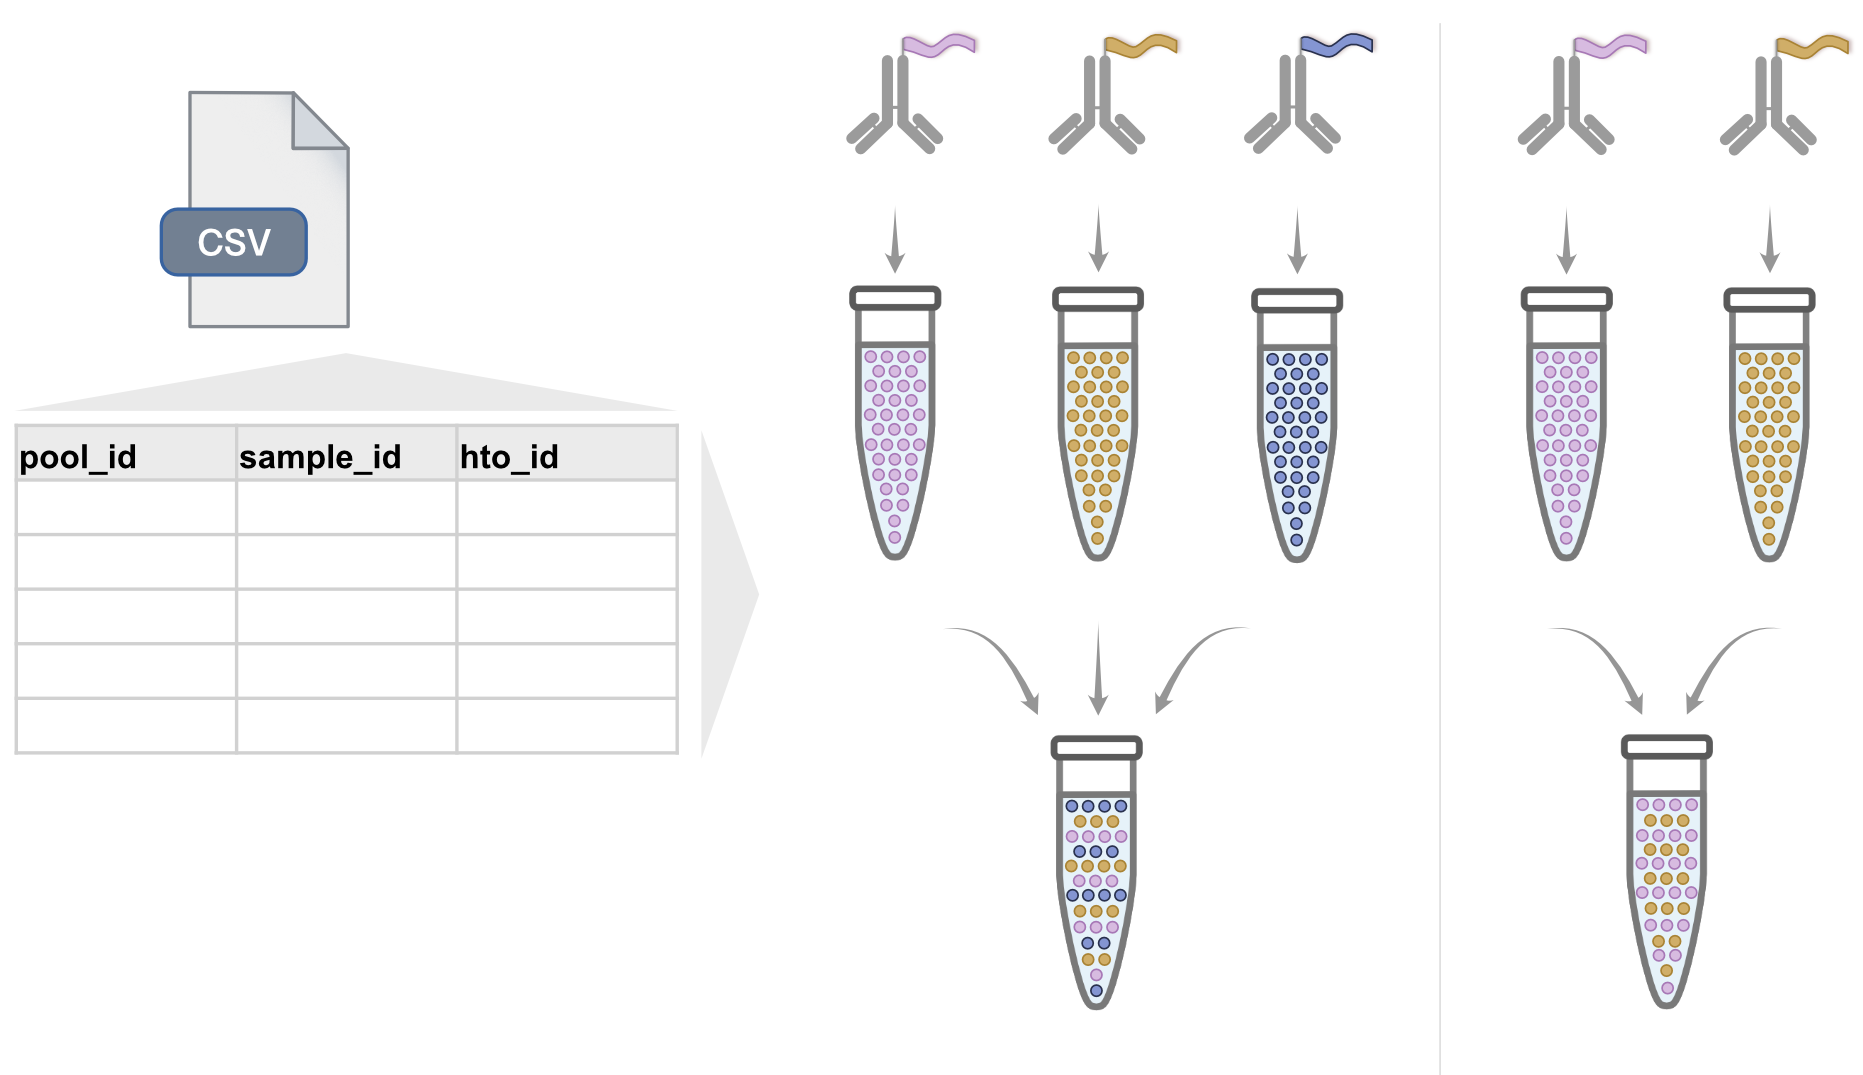
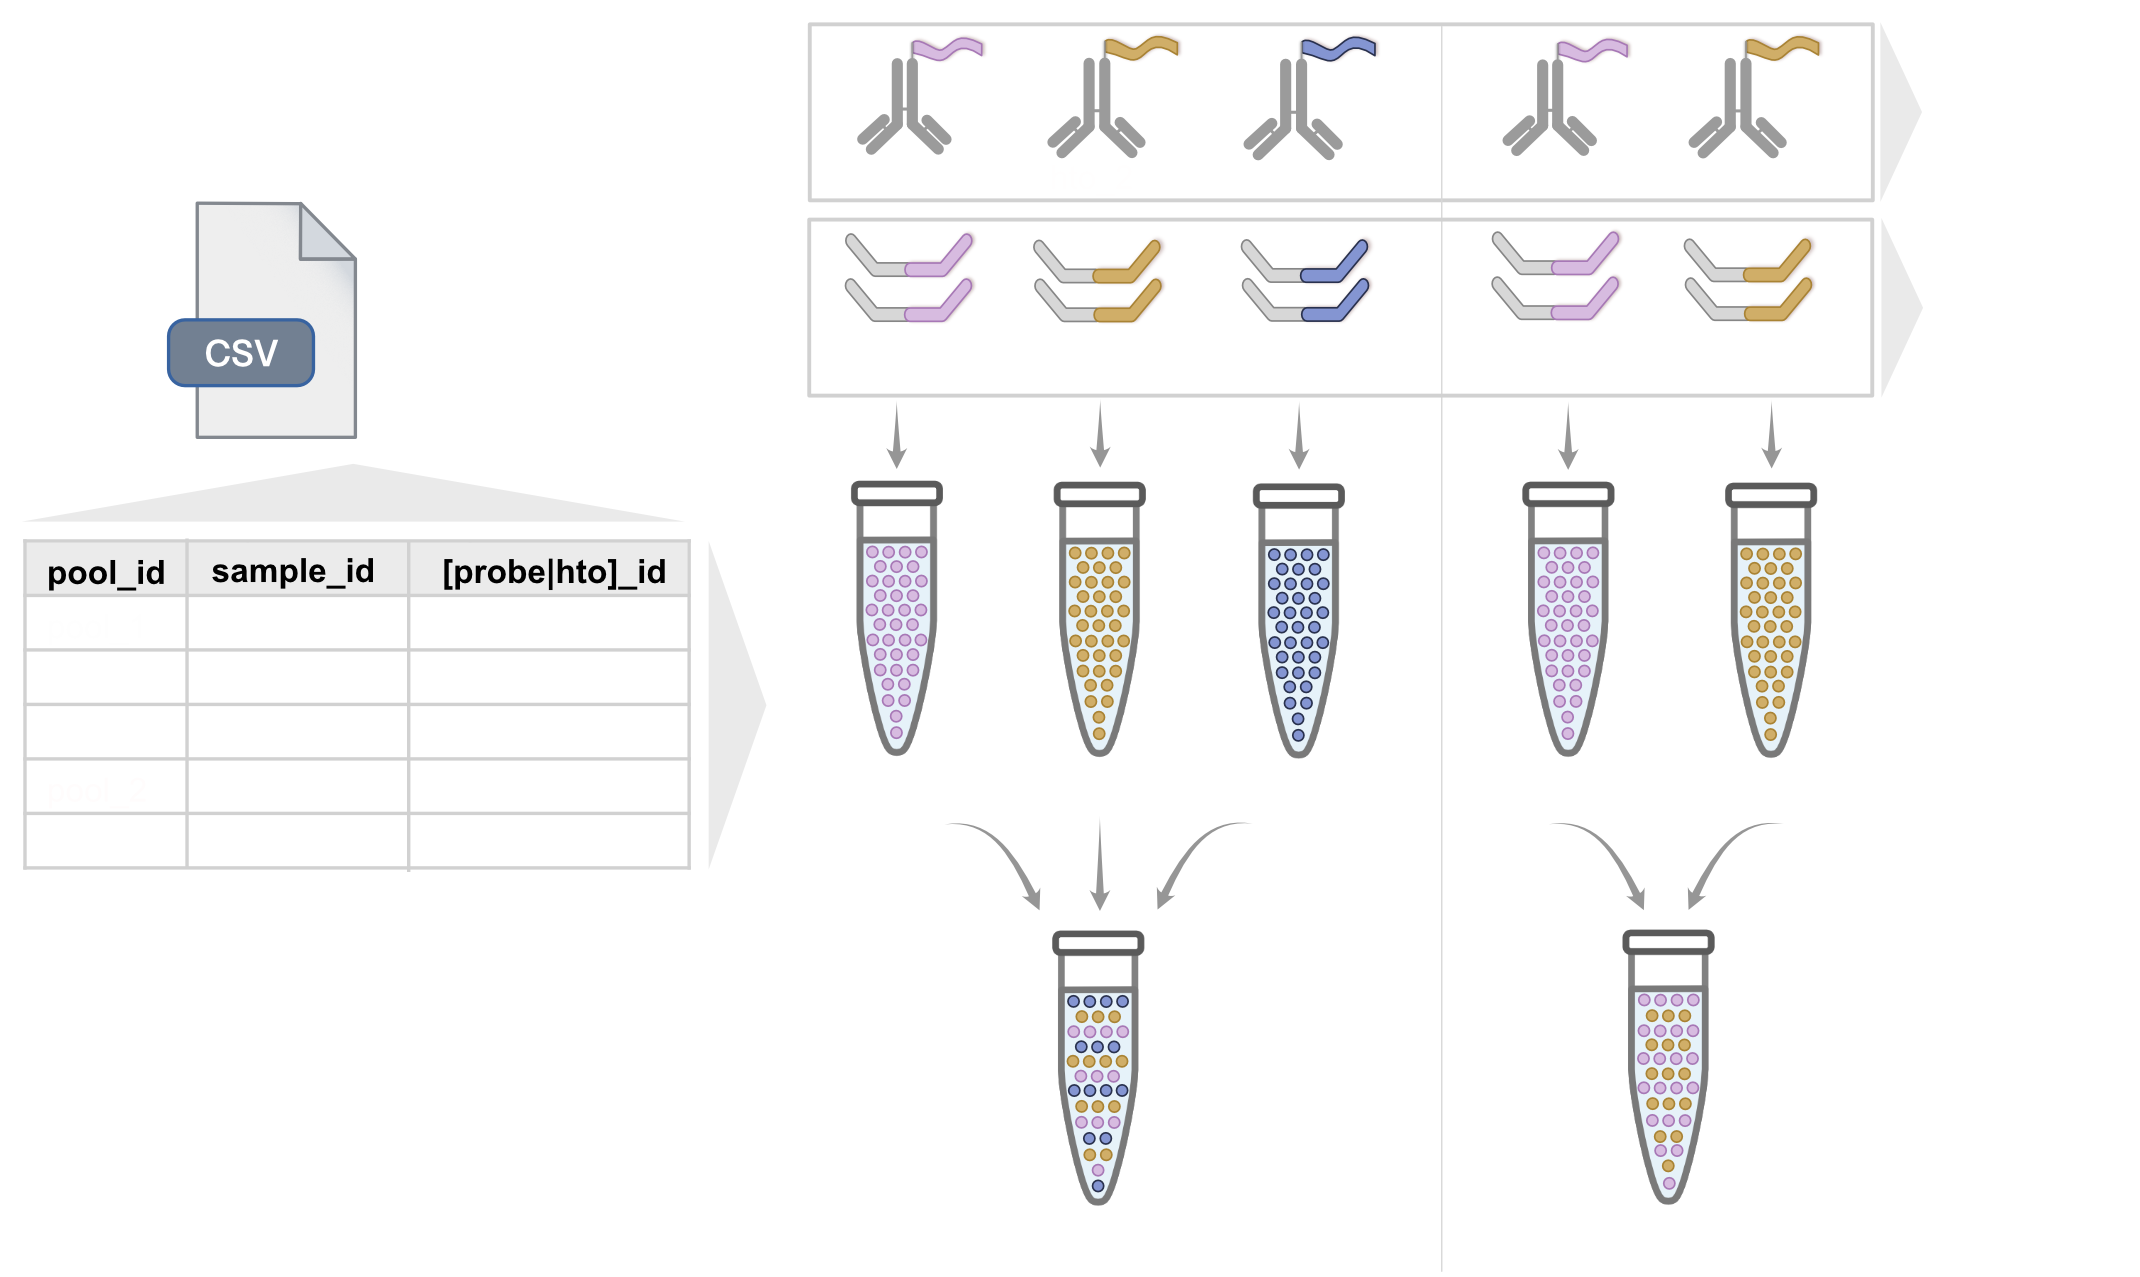
fixed to flex tutorial, usage and reference

diff --git a/resources/mkdocs/docs/stylesheets/extra.css b/resources/mkdocs/docs/stylesheets/extra.css
@@ -35,8 +35,8 @@ img[alt="workflow_chart"] {
 img[alt="multiplexing"] {
   display: block;
   margin: 0 auto;
-  width: 850px;
-  height: 500px;
+  width: 970px;
+  height: 600px;
 }
 .img-caption {
   text-align: left;

diff --git a/resources/mkdocs/docs/tutorial.md b/resources/mkdocs/docs/tutorial.md
@@ -507,6 +507,11 @@ scprocess setup
 
     This tutorial uses the ["40k Mixture of Mouse Cell Lines dataset"](https://www.10xgenomics.com/datasets/40k-mixture-of-mouse-cell-lines-multiplexed-samples-4-probe-barcodes-1-standard) from 10x Genomics. Four mouse cell lines (A20, NIH 3T3, Neuro-2a and EL4) were profiled together in a single Flex library. Each cell line was labelled with a distinct probe barcode (BC001–BC004) prior to pooling.
 
+    To generate smaller files via downsampling, we first download the BAM and the raw count HDF5 file for each of the four samples from the [10x Genomics website](https://www.10xgenomics.com/datasets/40k-mixture-of-mouse-cell-lines-multiplexed-samples-4-probe-barcodes-1-standard). For each sample independently, barcodes were
+    selected by retaining 40% of barcodes called as cells, 40% of barcodes in the empty plateau, and 30% of the remaining barcodes; any barcode
+    with fewer than 10 UMIs was discarded, as were all reads flagged as PCR duplicates. The four filtered BAMs were then merged and converted back to FASTQ format,
+    resulting in the dataset used for this tutorial.
+
 ### Creating a new project directory and preparing input data
 
 Create a new project directory using the `flex` and `multiplex` flags to generate a configuration template pre-populated with Flex-specific fields:
@@ -524,28 +529,41 @@ Next, download the raw FASTQ files:
 
 !!! warning "File size"
 
-    The size of FASTQ files approximately 99 GB. Download may take a while.
+    The size of FASTQ files approximately 23 GB. Download may take a while.
 
 ```bash
 # dowload FASTQ files
-wget -P data/fastqs \
-  https://s3-us-west-2.amazonaws.com/10x.files/samples/cell-exp/7.1.0/4plex_mouse_cell_lines_multiplex_Multiplex/4plex_mouse_cell_lines_multiplex_Multiplex_fastqs.tar
-
-tar -xvf data/fastqs/4plex_mouse_cell_lines_multiplex_Multiplex_fastqs.tar \
-  -C data/fastqs \
-  && rm data/fastqs/4plex_mouse_cell_lines_multiplex_Multiplex_fastqs.tar
-
-# remove index files (identified by _I1_ and _I2_ tags)
-find data/fastqs -name "*_I1_*" -o -name "*_I2_*" | xargs rm -f
+for url in https://zenodo.org/records/20162591/files/4plex_mouse_cell_lines_multiplex_S1_L00{1..4}.tar; do
+    {
+        file=$(basename "$url")
+        echo "Downloading $file..."
+        wget -q --show-progress -P data/fastqs "$url"
+        
+        echo "Extracting $file..."
+        tar -xf "data/fastqs/$file" -C data/fastqs
+        
+        rm "data/fastqs/$file"
+        echo "Finished $file"
+    } &
+done
+wait
 
 # download sample metadata
-wget -P data/metadata https://github.com/marusakod/scprocessData/releases/download/v0.1.0/flex_test_project_metadata.csv
+wget -P data/metadata https://zenodo.org/records/20162591/files/flex_test_project_metadata.csv
 ```
 
 With `ls data/fastqs` you should be able to see the following files:
 
 ```bash
-# paste fastq files here
+4plex_mouse_cell_lines_multiplex_S1_L001_R1_001.fastq.gz  4plex_mouse_cell_lines_multiplex_S1_L002_R2_002.fastq.gz
+4plex_mouse_cell_lines_multiplex_S1_L001_R1_002.fastq.gz  4plex_mouse_cell_lines_multiplex_S1_L003_R1_001.fastq.gz
+4plex_mouse_cell_lines_multiplex_S1_L001_R1_003.fastq.gz  4plex_mouse_cell_lines_multiplex_S1_L003_R1_002.fastq.gz
+4plex_mouse_cell_lines_multiplex_S1_L001_R2_001.fastq.gz  4plex_mouse_cell_lines_multiplex_S1_L003_R2_001.fastq.gz
+4plex_mouse_cell_lines_multiplex_S1_L001_R2_002.fastq.gz  4plex_mouse_cell_lines_multiplex_S1_L003_R2_002.fastq.gz
+4plex_mouse_cell_lines_multiplex_S1_L001_R2_003.fastq.gz  4plex_mouse_cell_lines_multiplex_S1_L004_R1_001.fastq.gz
+4plex_mouse_cell_lines_multiplex_S1_L002_R1_001.fastq.gz  4plex_mouse_cell_lines_multiplex_S1_L004_R1_002.fastq.gz
+4plex_mouse_cell_lines_multiplex_S1_L002_R1_002.fastq.gz  4plex_mouse_cell_lines_multiplex_S1_L004_R2_001.fastq.gz
+4plex_mouse_cell_lines_multiplex_S1_L002_R2_001.fastq.gz  4plex_mouse_cell_lines_multiplex_S1_L004_R2_002.fastq.gz
 ```
 
 To inspect the contents of the `flex_test_project_metadata.csv` file, you can use the following command:
@@ -567,7 +585,7 @@ pool_id                           sample_id     probe_id
 Note that the first column of the sample metadata file (`pool_id`) contains values that can be matched to FASTQ files i.e. `4plex_mouse_cell_lines_multiplex*`. The metadata file requires two additional columns:
 
 * `sample_id`: lists all samples corresponding to a single pool.
-* `probe_id`: lists the lables of probe barcode ids used for each sample.
+* `probe_id`: lists the lables of probe barcode IDs used for each sample.
 
 ### Creating a configuration file
 
@@ -576,7 +594,7 @@ The `newproj` command created a template at `config-flex_project.yaml`:
 ```yaml
 project:
   proj_dir: /absolute/path/to/test_project # replace with correct absolute path 
-  fastq_dir:
+  fastq_dir: data/fastqs
   full_tag: flex_project
   short_tag:
   your_name: 
@@ -593,7 +611,7 @@ qc:
   qc_max_splice: 0.99
 ```
 
-In addition to parameters common to both 10x assay types we have to set flex-specific paramaters highlighted below:
+In addition to parameters common to both 10x assay types we have to set Flex-specific paramaters highlighted below:
 
 ```yaml hl_lines="9 10 13"
 project:
@@ -625,7 +643,7 @@ scprocess run config-flex_project.yaml
 
 ### Inspecting reports
 
-All reports generated by {{sc}} for this tutorial are available at https://marusakod.github.io/scprocess_test_flex_project/. 
+All reports generated by {{sc}} for this tutorial are available at []
 
 
 

diff --git a/resources/mkdocs/docs/reference.md b/resources/mkdocs/docs/reference.md
@@ -22,18 +22,18 @@ arvados:
   arv_instance:   instance_name
 ref_txomes:
   tenx:
-    - name:       human_2024
-      decoys:     true
-      rrnas:      true
+  - name:       human_2024
+    decoys:     true
+    rrnas:      true
   custom:
-    - name:       custom_genome_name
-      fasta:      /path/to/genome.fa
-      gtf:        /path/to/genes.gtf
-      decoys:     true
-      mito_str:   "^mt-"
+  - name:       custom_genome_name
+    fasta:      /path/to/genome.fa
+    gtf:        /path/to/genes.gtf
+    decoys:     true
+    mito_str:   "^mt-"
 probe_sets:
   tenx:
-    - name:       human_v1
+  - name:       human_v1
 ```
 
 ##### user
@@ -144,7 +144,9 @@ This is an example config file for {{sc}} with all parameters and their default 
       affiliation:
       date_stamp:
       sample_metadata:
+      tenx_assay_type:
       ref_txome:
+      probe_set:
       metadata_vars:
       show_arv_uuids: true
       custom_sample_params:
@@ -242,7 +244,9 @@ This is an example config file for {{sc}} with all parameters and their default 
       affiliation: where you work
       date_stamp: "2050-01-01"
       sample_metadata: /path/to/metadata.csv
+      tenx_assay_type: poly_a
       ref_txome: human_2024
+      probe_set: human_v1
       tenx_chemistry: 3v3
       metadata_vars: [var1, var2]
       show_arv_uuids: true
@@ -345,7 +349,7 @@ This is an example config file for {{sc}} with all parameters and their default 
 * `your_name`: author’s name, displayed in HTML outputs.
 * `affiliation`: author’s affiliation, displayed in HTML outputs.
 * `date_stamp`: start date of the analysis, formatted as `"YYYY-MM-DD"`.
-* `sample_metadata`: path to CSV file with sample metadata. Should be absolute or relative to `proj_dir`. Spaces in column names are not allowed. Only required column is `sample_id`; values in `sample_id` should not contain `_R1`/`.R1` and `_R2`/`.R2` strings and should not overlap (a value should not be a subset of any other values). For Flex data, columns `pool_id` and `probe_id` are also required (see [Analysis of 10x Flex data](usage.md#analysis-of-10x-flex-data)).
+* `sample_metadata`: path to CSV file with sample metadata. Should be absolute or relative to `proj_dir`. Spaces in column names are not allowed. Only required column is `sample_id`; values in `sample_id` should not contain `_R1`/`.R1` and `_R2`/`.R2` strings and should not overlap (a value should not be a subset of any other values).
 * `ref_txome`: must match one of the values in the `ref_txome` column of `index_parameters.csv` (created by {{scsetup}}). Required for polyA data; must not be specified for Flex data (use `probe_set` instead).
 * `tenx_assay_type`: assay type. Options are `poly_a` and `flex`. When set to `flex`, `probe_set` is required and `ref_txome` must not be specified.
 * `probe_set`: probe set to use for 10x Flex data. Required when `tenx_assay_type` is `flex`. Valid values are `human_v1`, `human_v2`, `mouse_v1`, and `mouse_v2`. Must not be specified for polyA data.
@@ -390,7 +394,7 @@ sample_id:
 
 * `demux_type`: `demux_type` options (default is `none`):
     + `none` if experiment is not multiplexed;
-    + `hto` if demultiplexing of samples should be performed with {{sc}};
+    + `hto` if hto-based demultiplexing of samples should be performed with {{sc}};
     + `custom` if demultiplexing results will be used as input to {{sc}}; or
     + `flex` for 10x Flex data where samples are pooled within a library and demultiplexed using probe barcodes. Requires `tenx_assay_type: flex` in the `project` section.
 * `fastq_dir`: path to directory containing HTO FASTQ files. Should be absolute or relative to `proj_dir`. If `demux_type` is `hto`, exactly one of `fastq_dir` and `arv_uuids` should be specified.
@@ -403,7 +407,7 @@ sample_id:
 
 * `ambient_method`: method for ambient RNA removal. Options are:
     + `decontx_background` (default): runs [`decontX`](https://bioconductor.org/packages/release/bioc/html/celda.html) with an estimated ambient RNA profile as input.
-    + `decontx_cluster`: runs `decontX` with a cluster-based background model
+    + `decontx_cluster`: runs `decontX` with a cluster-based background model.
     + `cellbender`: uses [CellBender](https://cellbender.readthedocs.io) for ambient RNA removal.
     + `none`: skips ambient RNA removal;
 * `cell_calling`: method for cell calling when `ambient_method` is `none`, `decontx_background`, or `decontx_cluster`. Options are `barcodeRanks` (default) and `emptyDrops`.

diff --git a/resources/mkdocs/docs/usage.md b/resources/mkdocs/docs/usage.md
@@ -89,7 +89,7 @@ scprocess run /path/to/config.yaml -r qc
 
 * **Hashtag oligo (HTO)-based demultiplexing**: {{sc}} uses HTO-derived cDNA libraries to generate a count matrix which can be used for sample demultiplexing.
 
-* **Flex-based demultiplexing uses probe barocdes to assign each probe back to the original sample
+* **Flex-based demultiplexing**: {{sc}} uses probe barcodes to assign each probe back to the original sample
 
 * **Outputs of external demultiplexing algorithms**: If the data has already been demultiplexed using an external method (e.g. genetic demultiplexing tools like `Demuxlet`[@Kang2018-dh]), users can provide a cell-sample assignment file to process the data further using {{sc}}
 
@@ -107,17 +107,15 @@ Processing multiplexed samples requires a different format for the sample metada
 
 ![multiplexing](assets/images/scprocess_multiplexing_white_bg.png#only-light)
 ![multiplexing](assets/images/scprocess_multiplexing_black_bg.png#only-dark)
----
 
-<div class="img-caption">Schematic representation of HTO-based sample multiplexing for single-cell sequencing. Individual samples (with corresponding names in the <code>sample_id</code> column) are labelled with antibodies carrying different HTOs (with corresponding labels in the <code>hto_id</code> column). These labeled samples are then combined into pools (with corresponding names in the <code>pool_id</code> column). HTO labels can be shared across different pools. </div>
-![multiplexing](assets/images/scprocess_multiplexing_white_bg.png#only-light)
-![multiplexing](assets/images/scprocess_multiplexing_black_bg.png#only-dark)
 ---
+<div class="img-caption">Schematic representation of HTO-based and Flex-based sample multiplexing for single-cell sequencing. Individual samples (with corresponding names in the <code>sample_id</code> column) are labelled with antibodies carrying different HTOs (with corresponding labels in the <code>hto_id</code> column) or probes with different barcode sequences. These labeled samples are then combined into pools (with corresponding names in the <code>pool_id</code> column). HTO labels or probe barcodes can be shared across different pools. </div>
 
-<div class="img-caption">Schematic representation of Flex-based sample multiplexing for single-cell sequencing. Individual samples (with corresponding names in the <code>sample_id</code> column) are labelled using probes with different sample barcodes (with corresponding labels in the <code>probe_id</code> column). These labeled samples are then combined into pools (with corresponding names in the <code>pool_id</code> column). Probe barcode can be shared across different pools. </div>
 
 
 ### Options for integrating multiplexed samples
+
+!!! Warning "These options do not apply to multiplexed Flex samples."
 
 {{sc}} offers two approaches to integration of multiplexed samples, defined by `int_batch_var` in the `integration` section of the configuration file. The two possibilities are:
 
